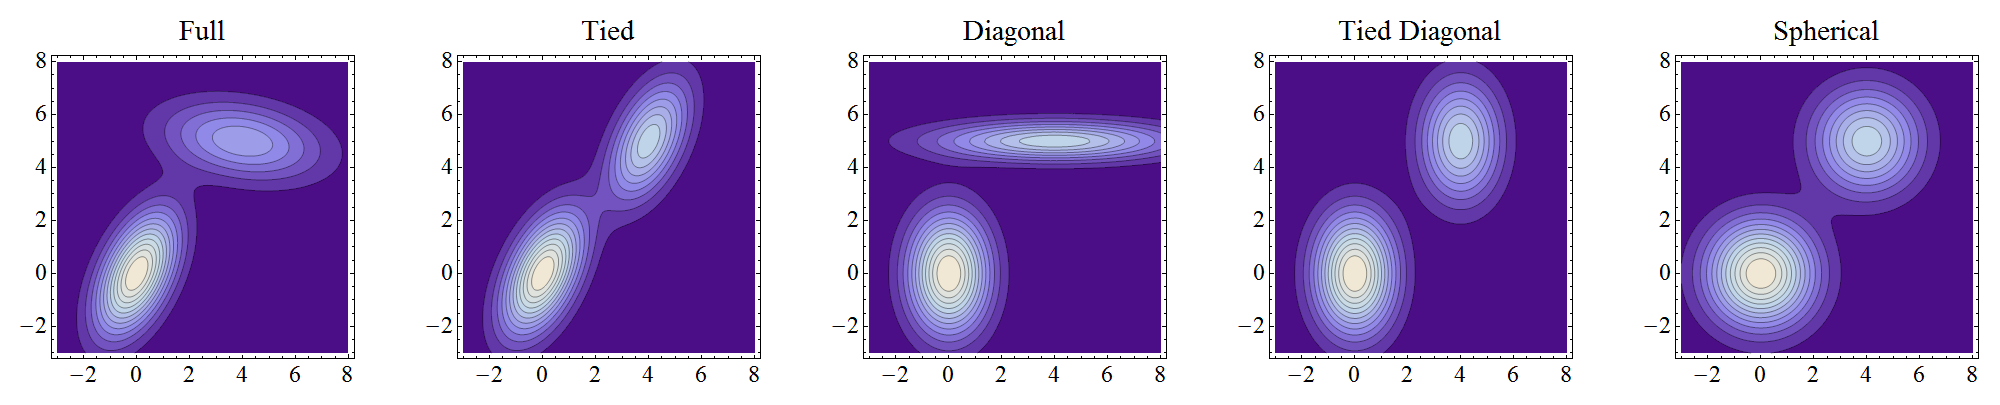
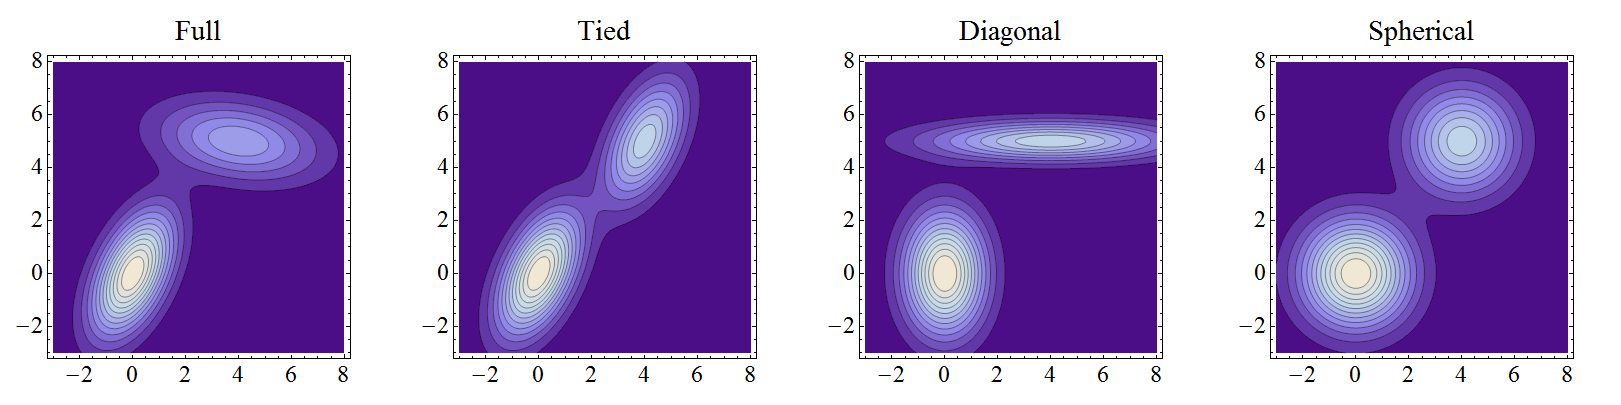
Finish GMMHMM docs

diff --git a/lib/sequentia/models/hmm/variants/gaussian_mixure.py b/lib/sequentia/models/hmm/variants/gaussian_mixure.py
@@ -80,8 +80,8 @@ class GaussianMixtureHMM(HMM):
     ) -> GaussianMixtureHMM:
         """
         :param n_states: Number of states in the Markov chain.
-        :param n_components: Number of Gaussian components in the emission model mixture distribution for each state.
-        :param covariance_type: Type of covariance matrix in the emission model mixture distribution for each state.
+        :param n_components: Number of Gaussian components in the mixture emission distribution for each state.
+        :param covariance_type: Type of covariance matrix in the mixture emission distribution for each state - see :ref:`covariance_types`.
         :param topology: Transition topology of the Markov chain — see :ref:`topologies`.
 
             - If ``None``, behaves the same as ``'ergodic'`` but with `hmmlearn <https://hmmlearn.readthedocs.io/en/latest/>`__ initialization.
@@ -227,9 +227,9 @@ class GaussianMixtureHMM(HMM):
         return super().aic(X, lengths)
 
     def set_state_means(self, values: Array[float]):
-        """Sets the state Gaussian mixture distribution means of the HMM's emission model.
+        """Sets the mean vectors of the state emission distributions.
 
-        If this method is **not** called, emission distribution means will be initialized by `hmmlearn <https://hmmlearn.readthedocs.io/en/latest/>`__.
+        If this method is **not** called, mean vectors will be initialized by `hmmlearn <https://hmmlearn.readthedocs.io/en/latest/>`__.
 
         :param values: Array of emission distribution mean values.
 
@@ -239,11 +239,11 @@ class GaussianMixtureHMM(HMM):
         self._skip_init_params |= set('m')
 
     def set_state_covariances(self, values: Array[float]):
-        """Sets the state Gaussian mixture distribution covariance matrices of the HMM's emission model.
+        """Sets the covariance matrices of the state emission distributions.
 
-        If this method is **not** called, emission distribution covariances will be initialized by `hmmlearn <https://hmmlearn.readthedocs.io/en/latest/>`__.
+        If this method is **not** called, covariance matrices will be initialized by `hmmlearn <https://hmmlearn.readthedocs.io/en/latest/>`__.
 
-        :param values: Array of emission distribution covariances values.
+        :param values: Array of emission distribution covariance values.
 
         :note: If used, this method should normally be called before :func:`fit`.
         """
@@ -251,11 +251,11 @@ class GaussianMixtureHMM(HMM):
         self._skip_init_params |= set('c')
 
     def set_state_weights(self, values: Array[float]):
-        """Sets the state Gaussian mixture distribution weights of the HMM's emission model.
+        """Sets the component mixture weights of the state emission distributions.
 
-        If this method is **not** called, emission distribution weights will be initialized by `hmmlearn <https://hmmlearn.readthedocs.io/en/latest/>`__.
+        If this method is **not** called, component mixture weights will be initialized by `hmmlearn <https://hmmlearn.readthedocs.io/en/latest/>`__.
 
-        :param values: Array of emission distribution mixture weights.
+        :param values: Array of emission distribution component mixture weights.
 
         :note: If used, this method should normally be called before :func:`fit`.
         """
@@ -266,24 +266,22 @@ class GaussianMixtureHMM(HMM):
         self,
         params: str = _defaults.hmmlearn_kwargs["params"],
     ):
-        """Freezes the trainable parameters of the HMM's Markov chain and/or emission model,
-        preventing them from being updated during the Baum—Welch algorithm.
+        """Freezes the trainable parameters of the HMM, preventing them from being updated during the Baum—Welch algorithm.
 
         :param params: A string specifying which parameters to freeze. Can contain a combination of:
 
-            - ``'s'`` for initial state probabilities (Markov chain parameters),
-            - ``'t'`` for transition probabilities (Markov chain parameters),
-            - ``'m'`` for GMM emission distribution means (emission parameters),
-            - ``'c'`` for GMM emission distribution covariances (emission parameters),
-            - ``'w'`` for GMM emission distribution mixture weights (emission parameters).
+            - ``'s'`` for initial state probabilities,
+            - ``'t'`` for transition probabilities,
+            - ``'m'`` for emission distribution means,
+            - ``'c'`` for emission distribution covariances,
+            - ``'w'`` for emission distribution mixture weights.
 
         :note: If used, this method should normally be called before :func:`fit`.
 
         See Also
         --------
         unfreeze:
-            Unfreezes the trainable parameters of the HMM's Markov chain and/or emission model,
-            allowing them to be updated during the Baum—Welch algorithm.
+            Unfreezes the trainable parameters of the HMM, allowing them to be updated during the Baum—Welch algorithm.
         """
         super().freeze(params)
 
@@ -291,22 +289,20 @@ class GaussianMixtureHMM(HMM):
         self,
         params: str = _defaults.hmmlearn_kwargs["params"],
     ):
-        """Unfreezes the trainable parameters of the HMM's Markov chain and/or emission model,
-        allowing them to be updated during the Baum—Welch algorithm.
+        """Unfreezes the trainable parameters of the HMM, allowing them to be updated during the Baum—Welch algorithm.
 
         :param params: A string specifying which parameters to unfreeze. Can contain a combination of:
 
-            - ``'s'`` for initial state probabilities (Markov chain parameters),
-            - ``'t'`` for transition probabilities (Markov chain parameters),
-            - ``'m'`` for GMM emission distribution means (emission parameters),
-            - ``'c'`` for GMM emission distribution covariances (emission parameters),
-            - ``'w'`` for GMM emission distribution mixture weights (emission parameters).
+            - ``'s'`` for initial state probabilities,
+            - ``'t'`` for transition probabilities,
+            - ``'m'`` for emission distribution means,
+            - ``'c'`` for emission distribution covariances,
+            - ``'w'`` for emission distribution mixture weights.
 
         See Also
         --------
         freeze:
-            Freezes the trainable parameters of the HMM's Markov chain and/or emission model,
-            preventing them from be updated during the Baum—Welch algorithm.
+            Freezes the trainable parameters of the HMM, preventing them from be updated during the Baum—Welch algorithm.
         """
         super().freeze(params)
 

diff --git a/lib/sequentia/models/hmm/variants/multinomial.py b/lib/sequentia/models/hmm/variants/multinomial.py
@@ -195,22 +195,20 @@ class MultinomialHMM(HMM):
         self,
         params: str = _defaults.hmmlearn_kwargs["params"],
     ):
-        """Freezes the trainable parameters of the HMM's Markov chain and/or emission model,
-        preventing them from being updated during the Baum—Welch algorithm.
+        """Freezes the trainable parameters of the HMM, preventing them from being updated during the Baum—Welch algorithm.
 
         :param params: A string specifying which parameters to freeze. Can contain a combination of:
 
-            - ``'s'`` for initial state probabilities (Markov chain parameters),
-            - ``'t'`` for transition probabilities (Markov chain parameters),
-            - ``'e'`` for emission probailities (emission parameters).
+            - ``'s'`` for initial state probabilities,
+            - ``'t'`` for transition probabilities,
+            - ``'e'`` for emission probailities.
 
         :note: If used, this method should normally be called before :func:`fit`.
 
         See Also
         --------
         unfreeze:
-            Unfreezes the trainable parameters of the HMM's Markov chain or emission model,
-            allowing them to be updated during the Baum—Welch algorithm.
+            Unfreezes the trainable parameters of the HMM, allowing them to be updated during the Baum—Welch algorithm.
         """
         super().freeze(params)
 
@@ -218,20 +216,18 @@ class MultinomialHMM(HMM):
         self,
         params: str = _defaults.hmmlearn_kwargs["params"],
     ):
-        """Unfreezes the trainable parameters of the HMM's Markov chain and/or emission model,
-        allowing them to be updated during the Baum—Welch algorithm.
+        """Unfreezes the trainable parameters of the HMM, allowing them to be updated during the Baum—Welch algorithm.
 
         :param params: A string specifying which parameters to unfreeze. Can contain a combination of:
 
-            - ``'s'`` for initial state probabilities (Markov chain parameters),
-            - ``'t'`` for transition probabilities (Markov chain parameters),
-            - ``'e'`` for emission probailities (emission parameters).
+            - ``'s'`` for initial state probabilities,
+            - ``'t'`` for transition probabilities,
+            - ``'e'`` for emission probailities.
 
         See Also
         --------
         freeze:
-            Freezes the trainable parameters of the HMM's Markov chain and/or emission model,
-            preventing them from being updated during the Baum—Welch algorithm.
+            Freezes the trainable parameters of the HMM, preventing them from being updated during the Baum—Welch algorithm.
         """
         super().freeze(params)
 

diff --git a/lib/sequentia/models/hmm/variants/base.py b/lib/sequentia/models/hmm/variants/base.py
@@ -117,7 +117,7 @@ class HMM(BaseEstimator):
         self,
         values: Union[Array, Literal["uniform", "random"]] = 'random'
     ):
-        """Sets the initial state probabilities of the HMM's Markov chain.
+        """Sets the initial state probabilities.
 
         If this method is **not** called, initial state probabilities are initialized depending on the value of ``topology`` provided to :func:`__init__`.
 
@@ -151,9 +151,9 @@ class HMM(BaseEstimator):
         self,
         values: Union[Array, Literal["uniform", "random"]] = 'random'
     ):
-        """Sets the state transition probability matrix of the HMM's Markov chain.
+        """Sets the transition probability matrix.
 
-        If this method is **not** called, transition probabilities are initialized depending on the value of ``topology`` provided to :func:`__init__`.
+        If this method is **not** called, transition probabilities are initialized depending on the value of ``topology`` provided to :func:`__init__`:
 
         - If ``topology`` was set to ``'ergodic'``, ``'left-right'`` or ``'linear'``, then random probabilities will be assigned according to the topology by calling :func:`set_transitions` with ``value='random'``.
         - If ``topology`` was set to ``None``, then initial state probabilities will be initialized by `hmmlearn <https://hmmlearn.readthedocs.io/en/latest/>`__.

diff --git a/docs/sections/models/hmm/variants/gaussian_mixture.rst b/docs/sections/models/hmm/variants/gaussian_mixture.rst
@@ -1,17 +1,48 @@
 Gaussian Mixture HMM
 ====================
 
-TODO
+The Gaussian Mixture HMM is a variant of HMM that uses a multivariate Gaussian mixture model as the emission distribution for each state.
+
+This HMM variant can be used to recognize unbounded real-valued univariate or multivariate emissions.
 
 Emissions
 ---------
 
-TODO
+The emission distribution :math:`b_m` of an observation :math:`\mathbf{o}^{(t)}` at time :math:`t` for state :math:`m` is formed by a weighted mixture of :math:`K` multivariate Gaussian probability density functions, defined as:
+
+.. math::
+
+   b_m(\mathbf{o}^{(t)}) = \sum_{k=1}^K c_k^{(m)} \mathcal{N}_D\big(\mathbf{o}^{(t)}\ \big|\ \boldsymbol\mu_k^{(m)}, \Sigma_k^{(m)}\big)
+
+Where:
+
+- | :math:`\mathbf{o}^{(t)}=\left(o_1^{(t)}, o_2^{(t)}, \ldots, o_D^{(t)}\right)` is a single **observation** at time :math:`t`, such that :math:`\mathbf{o}^{(t)}\in\mathbb{R}^D`.
+- | :math:`c_k^{(m)}` is a **component mixture weight** for the :math:`k^\text{th}` Gaussian component of the :math:`m^\text{th}` state, such that :math:`\sum_{k=1}^K c_k^{(m)} = 1` and :math:`c_k^{(m)}\in[0, 1]` for all :math:`k`.
+- | :math:`\boldsymbol\mu_k^{(m)}` is a **mean vector** for the :math:`k^\text{th}` Gaussian component of the :math:`m^\text{th}` state, such that :math:`\boldsymbol\mu_k^{(m)}\in\mathbb{R}^D`.
+- | :math:`\Sigma_k^{(m)}` is a **covariance matrix** for the :math:`k^\text{th}` Gaussian component of the :math:`m^\text{th}` state, such that :math:`\Sigma_k^{(m)}\in\mathbb{R}^{D\times D}`.
+- | :math:`\mathcal{N}_D` is the :math:`D`-dimensional multivariate Gaussian probability density function.
+
+Using a mixture rather than a single Gaussian allows for more flexible modelling of observations.
+
+The component mixture weights, mean vector and covariance matrix for all states and Gaussian components are updated during training via Expectation-Maximization through the Baum-Welch algorithm.
+
+.. _covariance_types:
 
 Covariance matrix types
 -----------------------
 
-TODO
+The :math:`K` covariance matrices for a state can come in different forms:
+
+- **Full**: All values are fully learnable independently for each component.
+- **Diagonal**: Only values along the diagonal may be learned independently for each component.
+- **Spherical**: Same as *diagonal*, with a single value shared along the diagonal for each component.
+- **Tied**: Same as *full*, with all components sharing the same single covariance matrix.
+
+Estimating a full covariance matrix is not always necessary, particularly when a sufficient number of Gaussian components are used. If time is limiting, a spherical, diagonal and tied covariance matrix may also yield strong results while reducing training time due to having fewer parameters to estimate.
+
+.. image:: /_static/images/covariance_types.png
+   :alt: Covariance Types
+   :width: 100%
 
 API reference
 -------------
